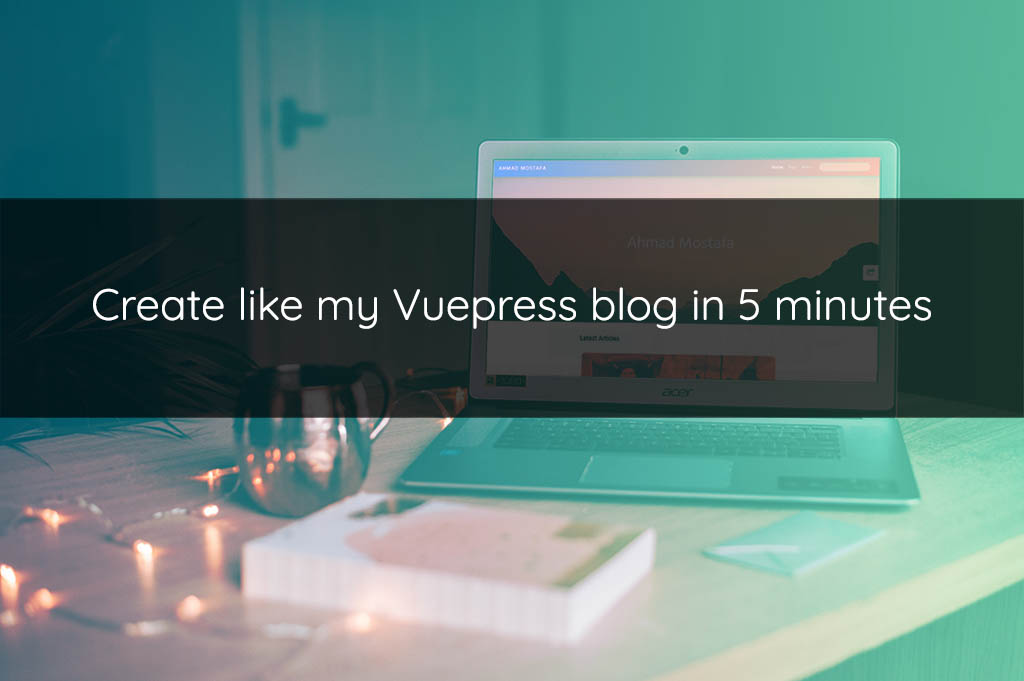
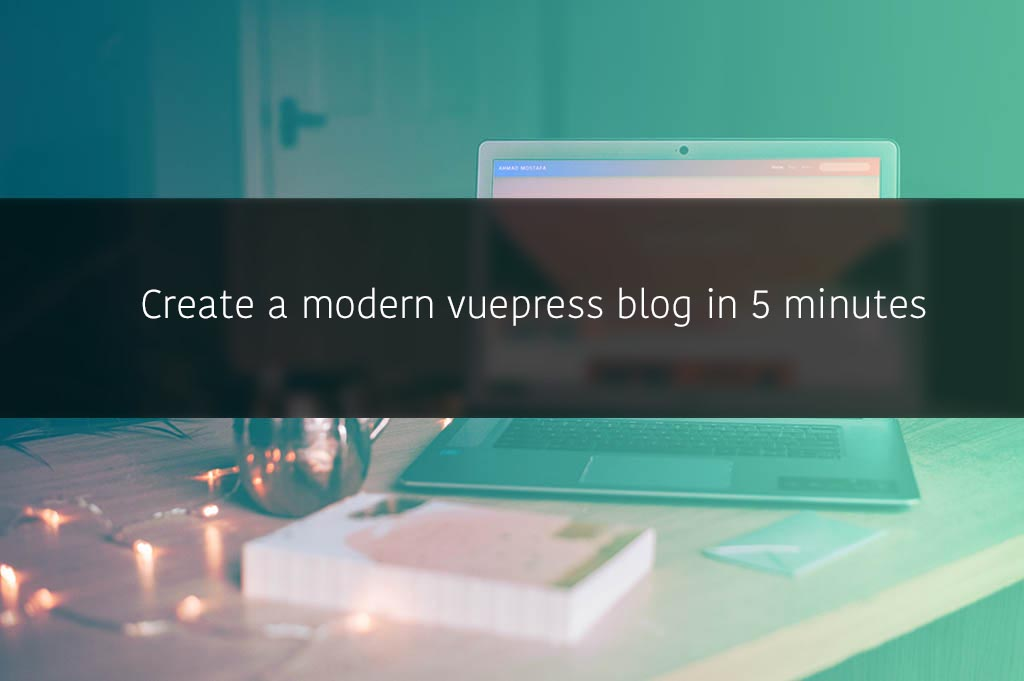
update post

diff --git a/_posts/vuepress-modern-blog-theme.md b/_posts/vuepress-modern-blog-theme.md
@@ -7,16 +7,16 @@ tags:
 - vuepress
 - vuepress-theme
 - javascript
-title: Create a blog like this one in 5 minutes!
-description: How to create a modern vuepress blog like Ahmad Mostafa's Website
+title: Create a modern vuepress blog in 5 minutes!
+description: Create a modern vuepress blog in 5 minutes!
 author: Ahmad Mostafa
 location: Irbid-Jordan
 image: /images/vuepress-modern-blog-theme/1.jpg
 meta:
   - name: title
-    content: Create a blog like this one in 5 minutes!
+    content: Create a modern vuepress blog in 5 minutes!
   - name: description
-    content: How to create a modern vuepress blog like Ahmad Mostafa's Website
+    content: create a modern vuepress blog
   - name: keywords
     content: Ahmad Mostafa, Vuepress, Vue.js, Vuepress website, vuepress blog, vuepress theme, vuepress blog theme, vue blog, create vuepress blog, blog theme, create a blog
   - name: author
@@ -25,23 +25,10 @@ meta:
     content: English
 ---
 
-## Motivation
-
-I just created this less than a month ago, I just realized how great Vuepress is, so I used the [Default Vuepress blog theme](https://github.com/vuepressjs/vuepress-theme-blog) for my blog, it is great and well done! but the thing that it doesn't have the best design ever! so I started tweaking it, and thanks to the creators it was easy to customize it, I reached to the point where I like it became! but also it was missing a lot of necessary functionality such as comments, analytics, Social sharing, Reading Time, Sitemap, etc...
-
-So I started adding those features, thanks to the most generous Open-source Community out there! I found a lot of great plugins that serve my needs.
-
-when I was done building my own Blog I found that I should give back to, and to be one of those Awesome Open-Source gangs, So I just published my for public and free usage under the name `Vuepress-theme-modern-blog`.
-
-[Github Repository](https://github.com/z3by/vuepress-theme-modern-blog) | [NPM](https://www.npmjs.com/package/vuepress-theme-modern-blog)
-
-<br>
-
-## Let's GO
-
-This is a step-by-step guide to create a website that looks a feels like my website.
 
 ### get started
+
+at the end of this tutorial you will create a vuepress blog that looks and feels like this demo [http://vp-modern.z3by.com](http://vp-modern.z3by.com),
 
 You can scaffold your project how ever you want, here we will use [Create Vuepress](https://github.com/vuepressjs/create-vuepress) with the Blog boilerplate.
 
@@ -258,8 +245,5 @@ you can add other networks to `socialShareNetworks` array.
 
 now you can see a cool floating button on the right side of your posts that help your users sharing your content! :tada:
 
-That's It! :tada: now You just have a cool website like mine! :wink: go and add some cool posts!
-
-## TLDR
-
-My website is public on github, you can fork it from [here](https://github.com/z3by/my-profile), clone it, play around with it!
+That's It! :tada:
+go and add some cool posts! :wink:
